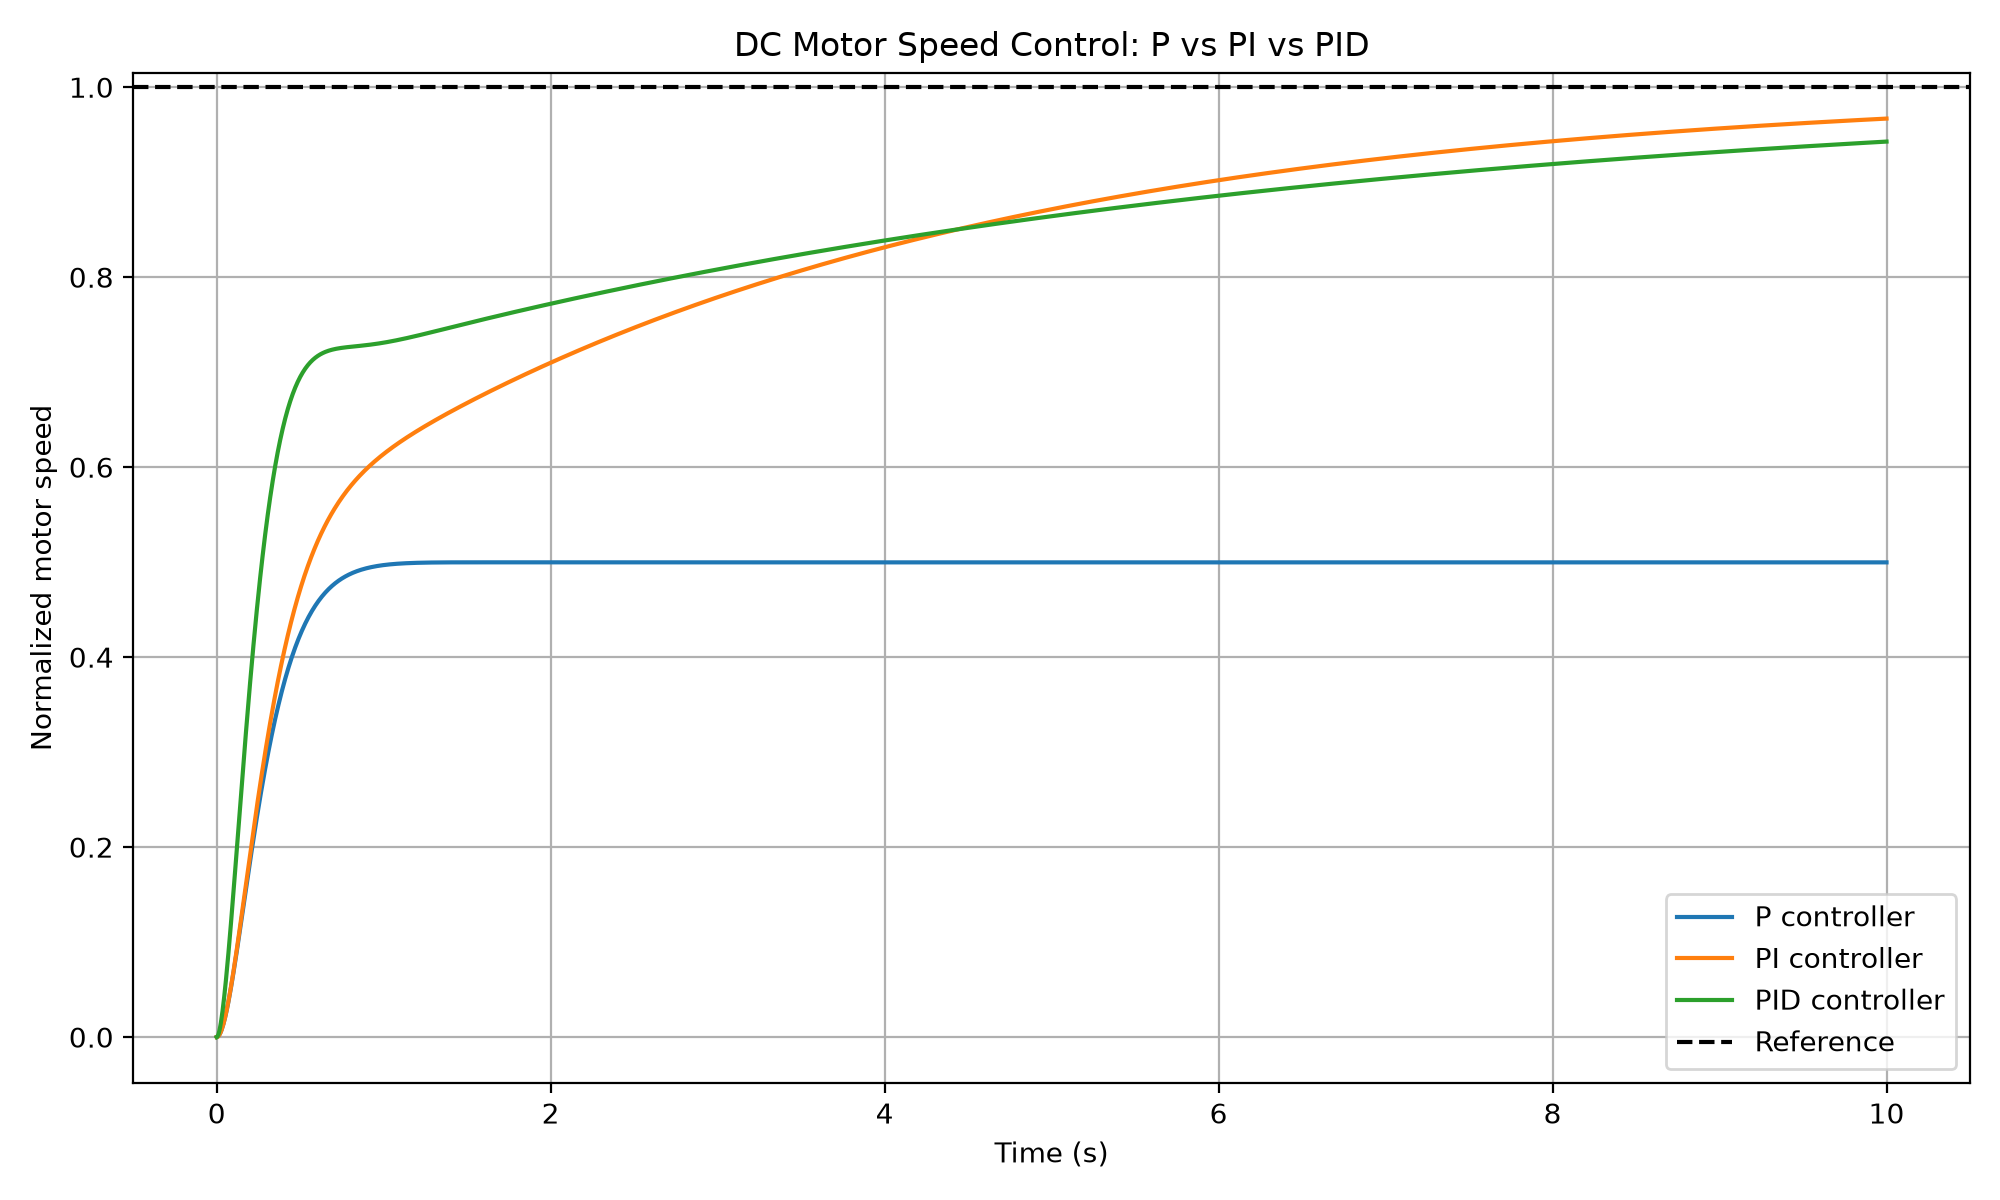
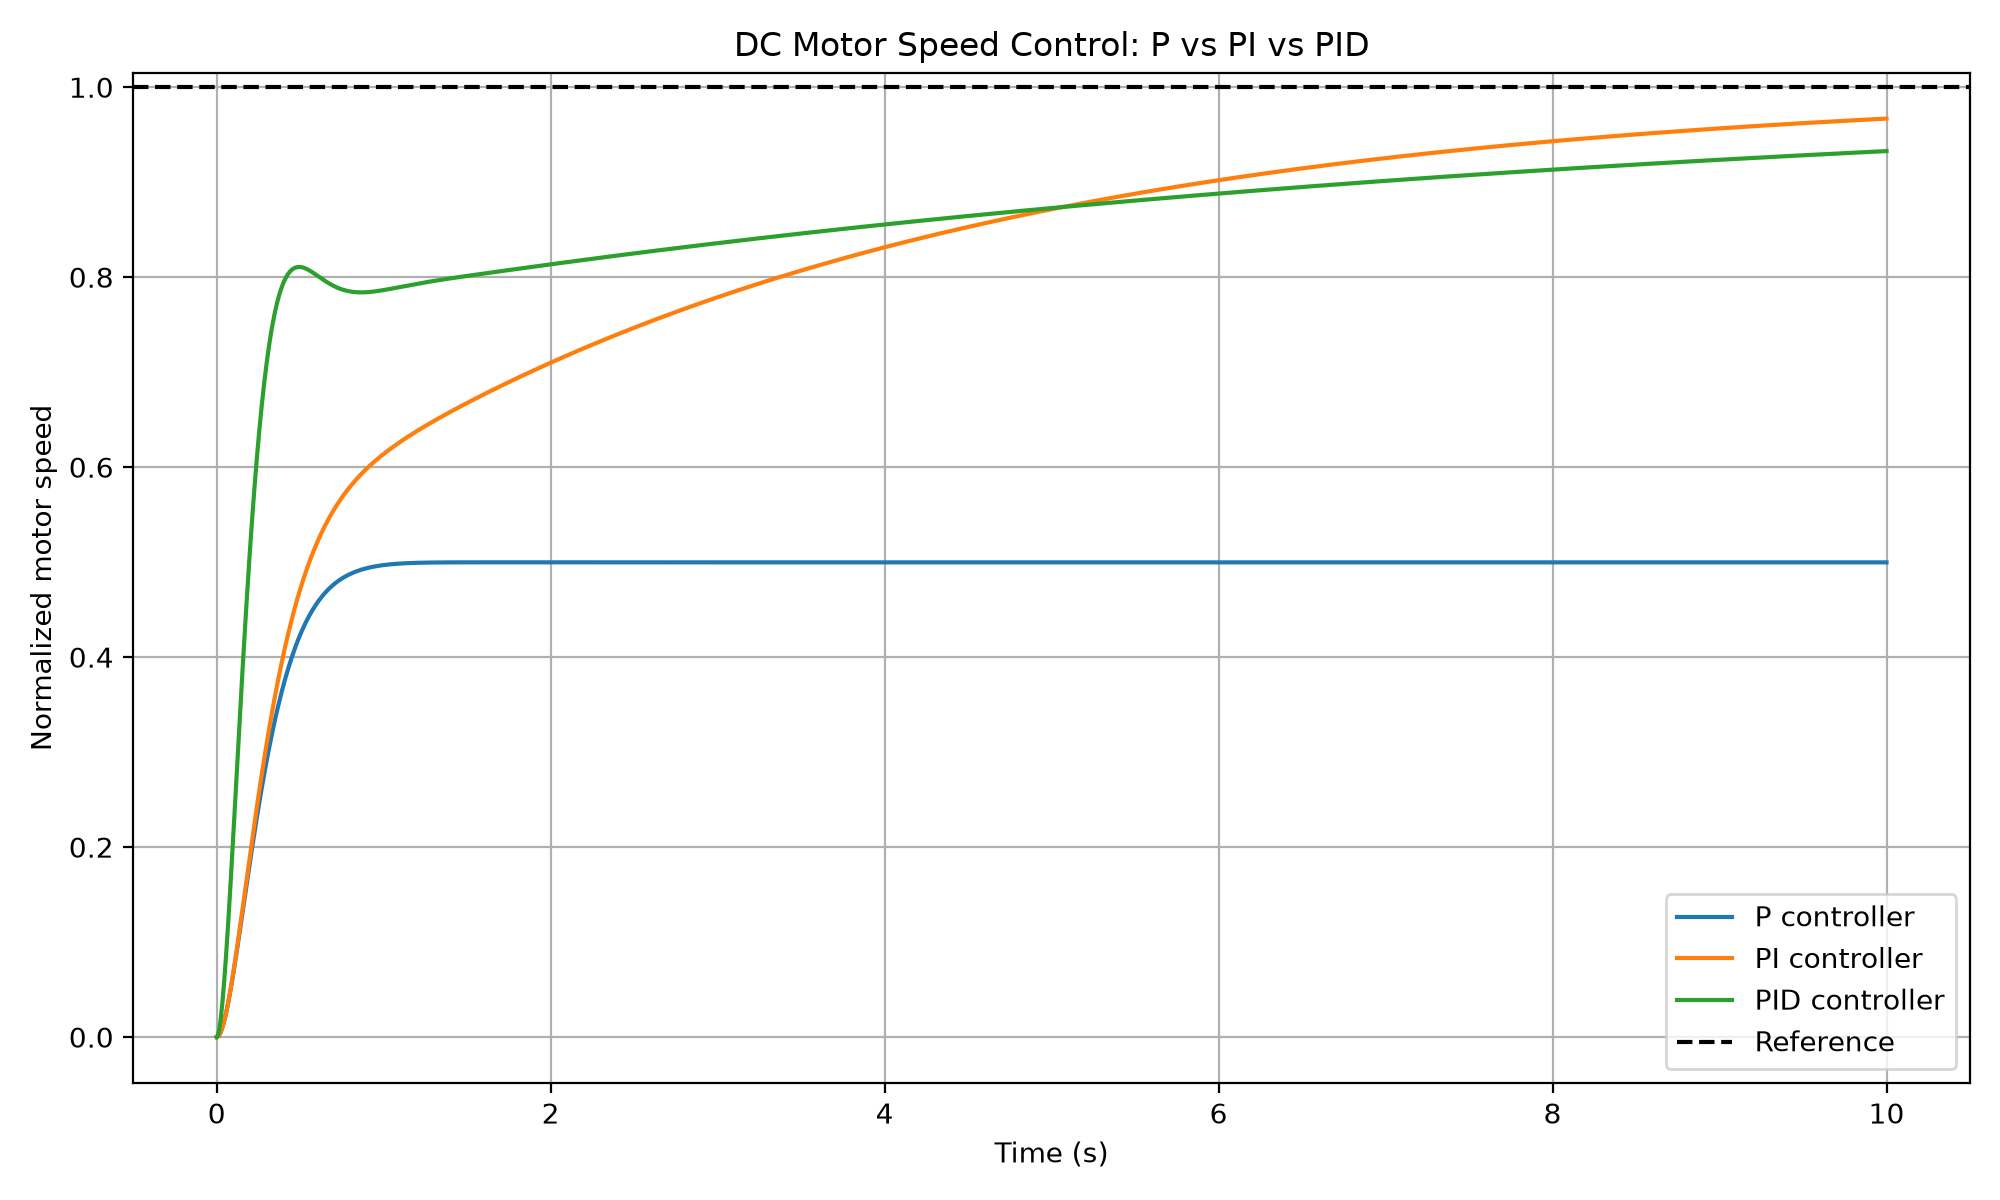
third test

diff --git a/motor_pid.py b/motor_pid.py
@@ -67,7 +67,7 @@ def main():
     controllers = [
         ("P controller", 10.0, 0.0, 0.0),
         ("PI controller", 10.0, 5.0, 0.0),
-        ("PID controller", 20.0, 5.0, 0.2),
+        ("PID controller", 30.0, 5.0, 0.2),
     ]
 
     plt.figure(figsize=(10, 6))
